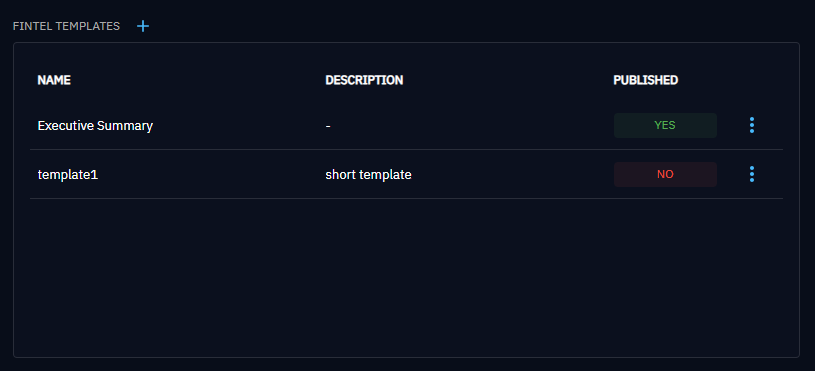
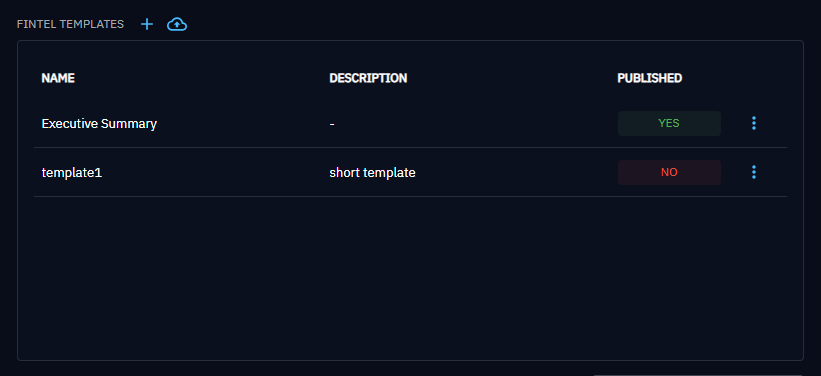
[docs] Fintel templates generation and widgets (#237)

diff --git a/docs/administration/entities.md b/docs/administration/entities.md
@@ -48,7 +48,7 @@ In addition, the available statuses are defined by a collection of status templa
 ## Fintel templates
 
 In Entreprise Edition, you can now define templates for your containers.
-You can access this feature via the Customization page (Setting/Customization/Entity types). As a result, you are required to have the Manage customization capability (or the Bypass capability) to either create, update, view or delete a template.
+You can access this feature via the Customization page (Setting/Customization/Entity types). As a result, you are required to have the Manage customization capability (or the Bypass capability) to either create, update, view, export or delete a template.
 
 ![Fintel templates](./assets/fintelTemplates-list.png)
 
@@ -59,14 +59,20 @@ In the 'Content editor' tab, you can write and format the content of your templa
 In the 'Content Preview' tab, you can preview what a file generated from your Fintel template will look like for a given container.
 ![Fintel templates preview](./assets/fintelTemplates-preview.png)
 
-In the right panel, the widgets saved in your template are displayed.
-- To add an existing widget in your content, copy the variable name and paste it in your content.
-- To add a widget, click on the 'add data in content' button and follow the steps to create a visualization. For more information on how to create a widget, please read  [Widget creation](../usage/widgets.md).
-- You can only delete widgets that are not used in your content (they are highlighted with a warning icon).
+### Fintel template widgets
 
+In the right panel, the widgets saved in your template are displayed.
 ![Fintel templates widgets](./assets/fintelTemplates-widgets.png)
 
+To add an existing widget in your content, copy the variable name and paste it in your content.
+
+To add a widget, click on the 'Add data related to the container' button and follow the steps to create a visualization. For more information on how to create a widget, please read  [Widget creation](../usage/widgets.md).
+
+To add an attribute of the container where the Fintel template will be used, click on the 'Add data of the container' button. In the opened pop-up you can manage the attributes you want to use in your template content.
 Note that every template has a built-in widget of type 'attribute' that can't be deleted. This widget enables to display attributes of the container for which the template will be used.
+![Fintel templates self attribute widget edition](./assets/fintelTemplates-widget-attributes.png)
+
+You can only delete widgets that are not used in your content (they are highlighted with a warning icon).
 
 
 <a id="attributes-section"></a>

diff --git a/docs/usage/export.md b/docs/usage/export.md
@@ -48,6 +48,25 @@ You can also choose to export a list of entities within a container. To do so, g
 
 ![Export specific elements](assets/export_specific_elements.png)
 
+### Export a Fintel template (EE only)
+
+In containers, under Enterprise Edition, it's possible to generate html and pdf files from a given template.
+Finished intelligence files can be generated via the general Export button or under the 'Content' section of your container.
+![Generate Fintel templates button](assets/fintelTemplate-generate-button.png)
+
+You can choose the type of your file (html or pdf), its name, its marking, and the maximum markings of the entities that may be included in the file. Indeed a template can include lists of entities (for instance, the indicators contained in your container) and you may want to restrict the displayed entities according to their markings.
+The internal connector generating your template is called 'Generate FINTEL from template'.
+![Export (html) Fintel template pop-up](assets/fintelTemplates-export-html.png)
+
+If you generate Fintel template in html, the file will appear in the right panel and you will be able to modify its content via CK Editor.
+![Fintel template content edition](assets/fintelTemplate-content-edition.png)
+
+Then you can also export your html file in pdf via the internal connector 'HTML content files to PDF' that generates custom pdfs.
+![Export (pdf) Fintel template pop-up](assets/fintelTemplates-export-pdf.png)
+
+![Fintel template pdf file](assets/fintelTemplates-pdf-file.png)
+
+
 <a id="export-type-section"></a>
 ### Export types (simple and full)
 
